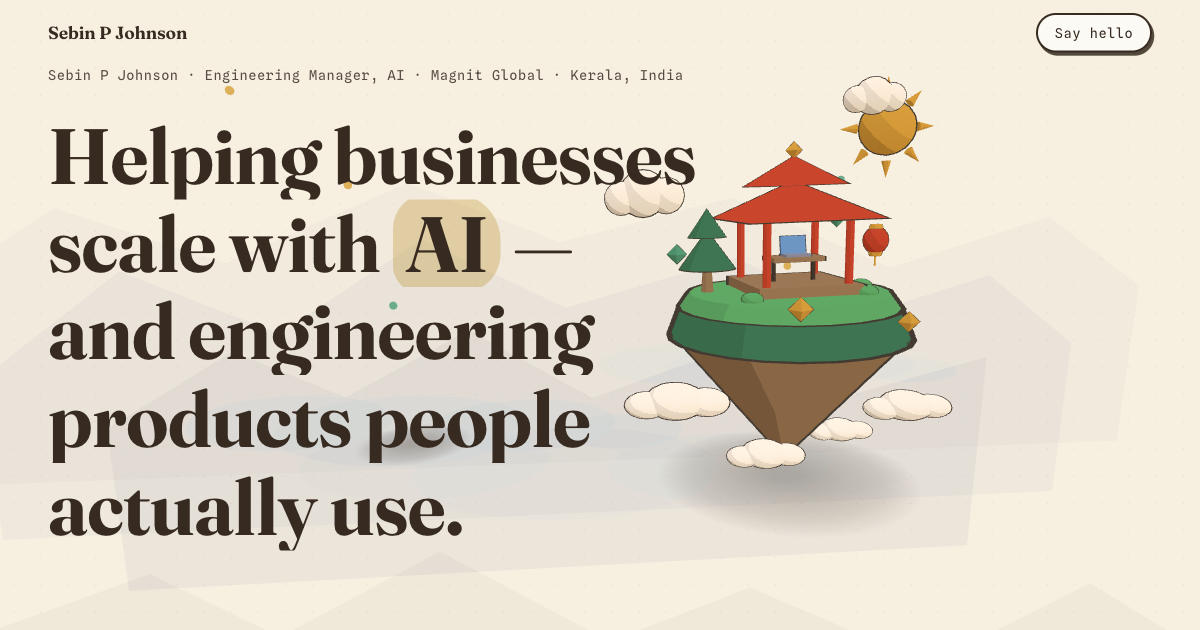
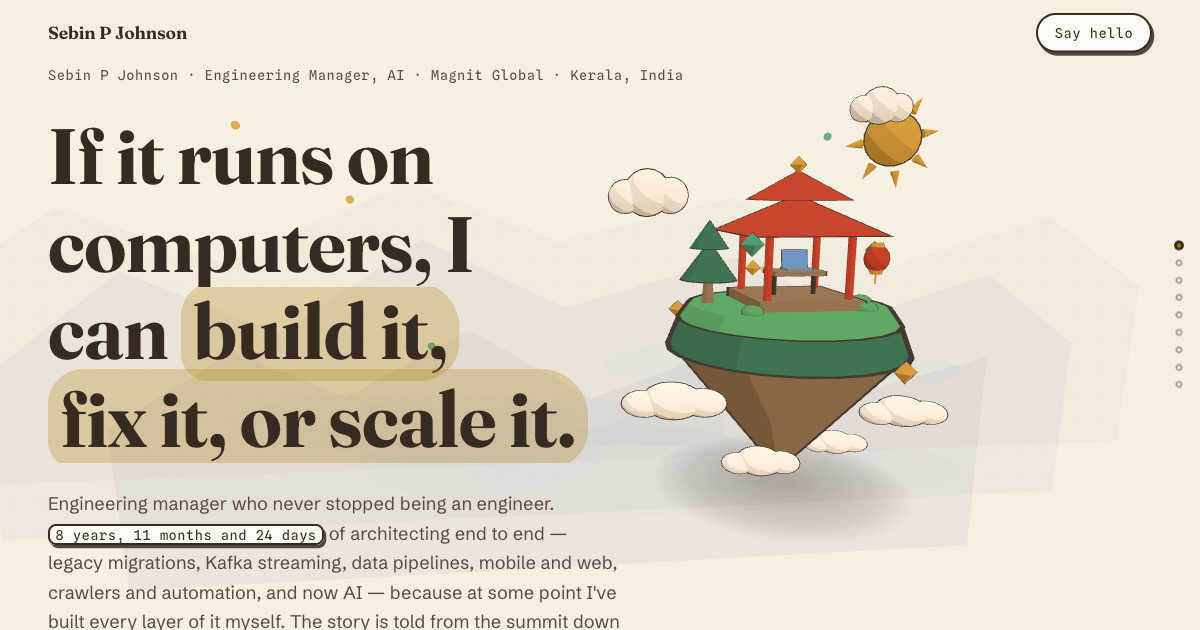
Reposition hero as generalist architect
The old headline ("Helping businesses scale with AI") read as an
AI-vertical specialist. The hero now leads with the actual thesis —
"If it runs on computers, I can build it, fix it, or scale it." —
with the sub grounding it in the engineer-to-EM arc and the
end-to-end range (legacy migrations, Kafka streaming, data
pipelines, mobile and web, crawlers and automation, AI). Chip cloud
grows 9 → 11 with sharper nouns, page title gains the Software
Architect positioning, JSON-LD gains knowsAbout, og.png and
llms.txt realigned. Highlight phrases use nowrap spans because
SplitText normalizes &nbsp; away when rebuilding lines.

Changed region(s): [[0.0308, 0.1206, 0.8017, 0.9048], [0.0308, 0.9349, 0.5242, 1.0], [0.185, 0.1206, 0.2158, 0.1508]]

diff --git a/index.html b/index.html
@@ -4,26 +4,26 @@
   <meta charset="utf-8">
   <meta name="viewport" content="width=device-width, initial-scale=1">
 
-  <title>Sebin P Johnson — Engineering Manager, AI</title>
+  <title>Sebin P Johnson — Engineering Manager · Software Architect</title>
   <meta name="description"
-        content="Sebin P Johnson — Engineering Manager, AI at Magnit Global. Self-taught engineer with 9+ years across full-stack, data infrastructure, and AI product engineering.">
+        content="Sebin P Johnson — Engineering Manager, AI at Magnit Global. Generalist architect: legacy migrations, Kafka streaming, data pipelines, mobile and web, crawlers, and AI in production. If it runs on computers, he can build it, fix it, or scale it.">
   <link rel="canonical" href="https://sebins.in/">
   <meta name="theme-color" content="#f6efdf">
 
   <!-- Open Graph -->
   <meta property="og:type" content="website">
   <meta property="og:url" content="https://sebins.in/">
-  <meta property="og:title" content="Sebin P Johnson — Engineering Manager, AI">
+  <meta property="og:title" content="Sebin P Johnson — Engineering Manager · Software Architect">
   <meta property="og:description"
-        content="Self-taught engineer with 9+ years across full-stack, data infrastructure, and AI product engineering — a story told from the summit down.">
+        content="If it runs on computers, he can build it, fix it, or scale it. 9+ years across migrations, streaming, data, mobile, web, and AI — a story told from the summit down.">
   <meta property="og:image" content="https://sebins.in/og.png">
 
   <!-- Twitter -->
   <meta property="twitter:card" content="summary_large_image">
   <meta property="twitter:url" content="https://sebins.in/">
-  <meta property="twitter:title" content="Sebin P Johnson — Engineering Manager, AI">
+  <meta property="twitter:title" content="Sebin P Johnson — Engineering Manager · Software Architect">
   <meta property="twitter:description"
-        content="Self-taught engineer with 9+ years across full-stack, data infrastructure, and AI product engineering.">
+        content="If it runs on computers, he can build it, fix it, or scale it. 9+ years across migrations, streaming, data, mobile, web, and AI.">
   <meta property="twitter:image" content="https://sebins.in/og.png">
 
   <link rel="icon" type="image/svg+xml" href="/favicon.svg">
@@ -37,6 +37,12 @@
     "name": "Sebin P Johnson",
     "jobTitle": "Engineering Manager, AI",
     "worksFor": { "@type": "Organization", "name": "Magnit Global" },
+    "knowsAbout": [
+      "AI/ML", "LLM orchestration", "Kafka streaming", "Data pipelines",
+      "Legacy system migrations", "Mobile development", "Web platforms",
+      "Web crawlers and automation", "DevOps", "Kubernetes",
+      "Engineering leadership"
+    ],
     "email": "mailto:me@sebins.in",
     "url": "https://sebins.in/",
     "address": { "@type": "PostalAddress", "addressRegion": "Kerala", "addressCountry": "IN" },
@@ -74,18 +80,20 @@
       <div class="chapter__copy">
         <p class="hero__kicker mono" id="hero-kicker">Sebin P Johnson · Engineering Manager, AI · Magnit Global · Kerala, India</p>
         <h1 class="hero__title" id="hero-title">
-          Helping businesses scale with <span class="hi">AI</span> — and engineering products people actually&nbsp;use.
+          If it runs on computers, I can <span class="hi"><span class="nowrap">build it,</span> <span class="nowrap">fix it,</span> or <span class="nowrap">scale it.</span></span>
         </h1>
         <p class="hero__sub">
-          Self-taught engineer turned engineering manager.
-          <span class="mono nowrap"><span id="experience">9+ years</span></span> of shipping software,
-          moving data, and putting AI to work. The story is told from the summit down — scroll
-          to descend, all the way back to where it started.
+          Engineering manager who never stopped being an engineer.
+          <span class="mono nowrap"><span id="experience">9+ years</span></span> of architecting
+          end to end — legacy migrations, Kafka streaming, data pipelines, mobile and web,
+          crawlers and automation, and now AI — because at some point I've built every layer
+          of it myself. The story is told from the summit down — scroll to descend.
         </p>
         <ul class="chip-row chip-row--hero" aria-label="What I do">
           <li class="chip mono">AI / ML</li><li class="chip mono">LLM orchestration</li>
-          <li class="chip mono">Data pipelines</li><li class="chip mono">Code migrations</li>
-          <li class="chip mono">Full-stack</li><li class="chip mono">Mobile development</li>
+          <li class="chip mono">Kafka streaming</li><li class="chip mono">Data pipelines</li>
+          <li class="chip mono">Legacy migrations</li><li class="chip mono">Mobile development</li>
+          <li class="chip mono">Web platforms</li><li class="chip mono">Crawlers &amp; automation</li>
           <li class="chip mono">DevOps</li><li class="chip mono">Kubernetes</li>
           <li class="chip mono">Team leadership</li>
         </ul>

diff --git a/docs/superpowers/specs/2026-06-12-hero-generalist-repositioning-design.md b/docs/superpowers/specs/2026-06-12-hero-generalist-repositioning-design.md
@@ -1,0 +1,47 @@
+# Hero repositioning — generalist architect (2026-06-12)
+
+## Problem
+
+The hero headline ("Helping businesses scale with AI…") positions Sebin as an
+AI-vertical specialist. The intended read is the opposite: a generalist
+engineer-turned-EM who can be entrusted with *any* technical problem — legacy
+migrations, Kafka streaming, data pipelines, mobile and web, crawlers and
+automation, AI. One look should conclude "hand this person the problem."
+
+## Direction (user-approved)
+
+Blend of "Fixer" headline energy and "Architect" trust scaffolding. The page
+never self-praises ("genius", "talented") — confidence is carried by specific
+range stated calmly. The descent narrative is kept: the summit framing IS the
+mastery claim.
+
+## Copy spec
+
+- **Kicker**: unchanged (factual title line).
+- **H1**: `If it runs on computers, I can <span class="hi">build it, fix it,
+  or scale it</span>.` Highlight moves from "AI" to the verb triplet.
+- **Sub**: "Engineering manager who never stopped being an engineer.
+  [9+ years] of architecting end to end — legacy migrations, Kafka streaming,
+  data pipelines, mobile and web, crawlers and automation, and now AI —
+  because at some point I've built every layer of it myself. The story is told
+  from the summit down — scroll to descend." (keeps the `#experience` span)
+- **Chips**: 9 → 11. AI / ML · LLM orchestration · Kafka streaming ·
+  Data pipelines · Legacy migrations · Mobile development · Web platforms ·
+  Crawlers & automation · DevOps · Kubernetes · Team leadership.
+  Denser summit reinforces the top-heavy density gradient.
+- **`<title>` / og / twitter titles**: "Sebin P Johnson — Engineering Manager
+  · Software Architect" (positioning lives in the title, jobTitle stays
+  factual).
+- **Meta description**: generalist-architect thesis + the headline line.
+- **og/twitter descriptions**: headline line + range + summit framing.
+- **JSON-LD**: add `knowsAbout` array mirroring the chips; `jobTitle`
+  unchanged.
+- **llms.txt**: opening blockquote rewritten to the same thesis.
+
+## Invariants
+
+- Zero CJK / cultivation jargon (grep `realm|cultivat|\bqi\b|\bdao\b|[一-鿿]`
+  stays empty on dist).
+- Section IDs, animation system, lower chapters untouched.
+- 390px: chip cloud must not blow the hero past ~92svh.
+- og.png regenerated from the new hero.
